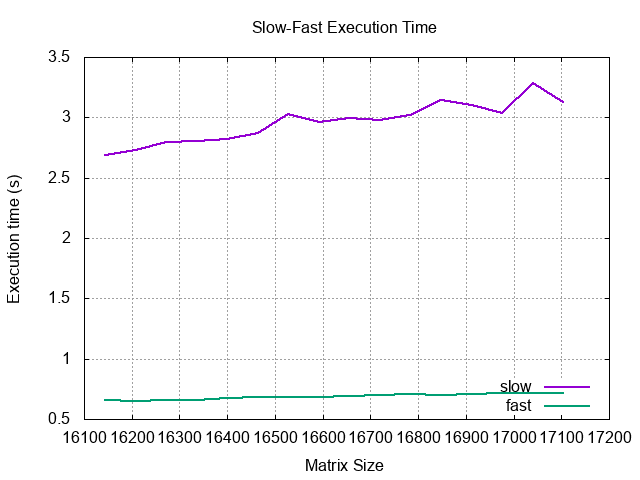
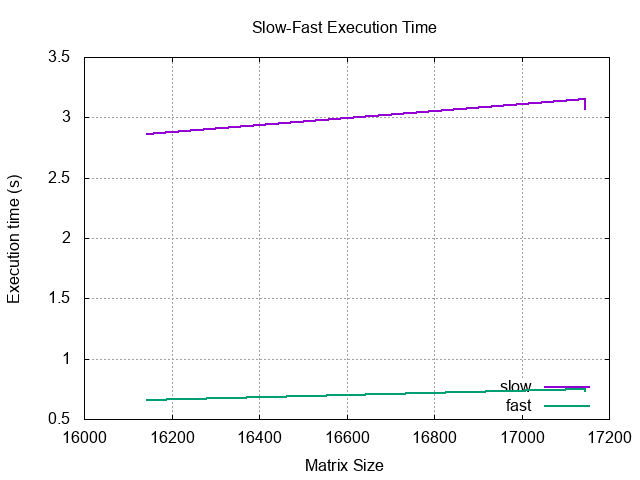
Lee n como entero

diff --git a/slow_fast_media.py b/slow_fast_media.py
@@ -4,7 +4,7 @@ slow_fast_averages = {}
 
 for line in file.readlines():
     words = line.split()
-    n = float(words[0])
+    n = int(words[0])
     slow_time = float(words[1])
     fast_time = float(words[2])
     if slow_fast_averages.get(n) is None:
